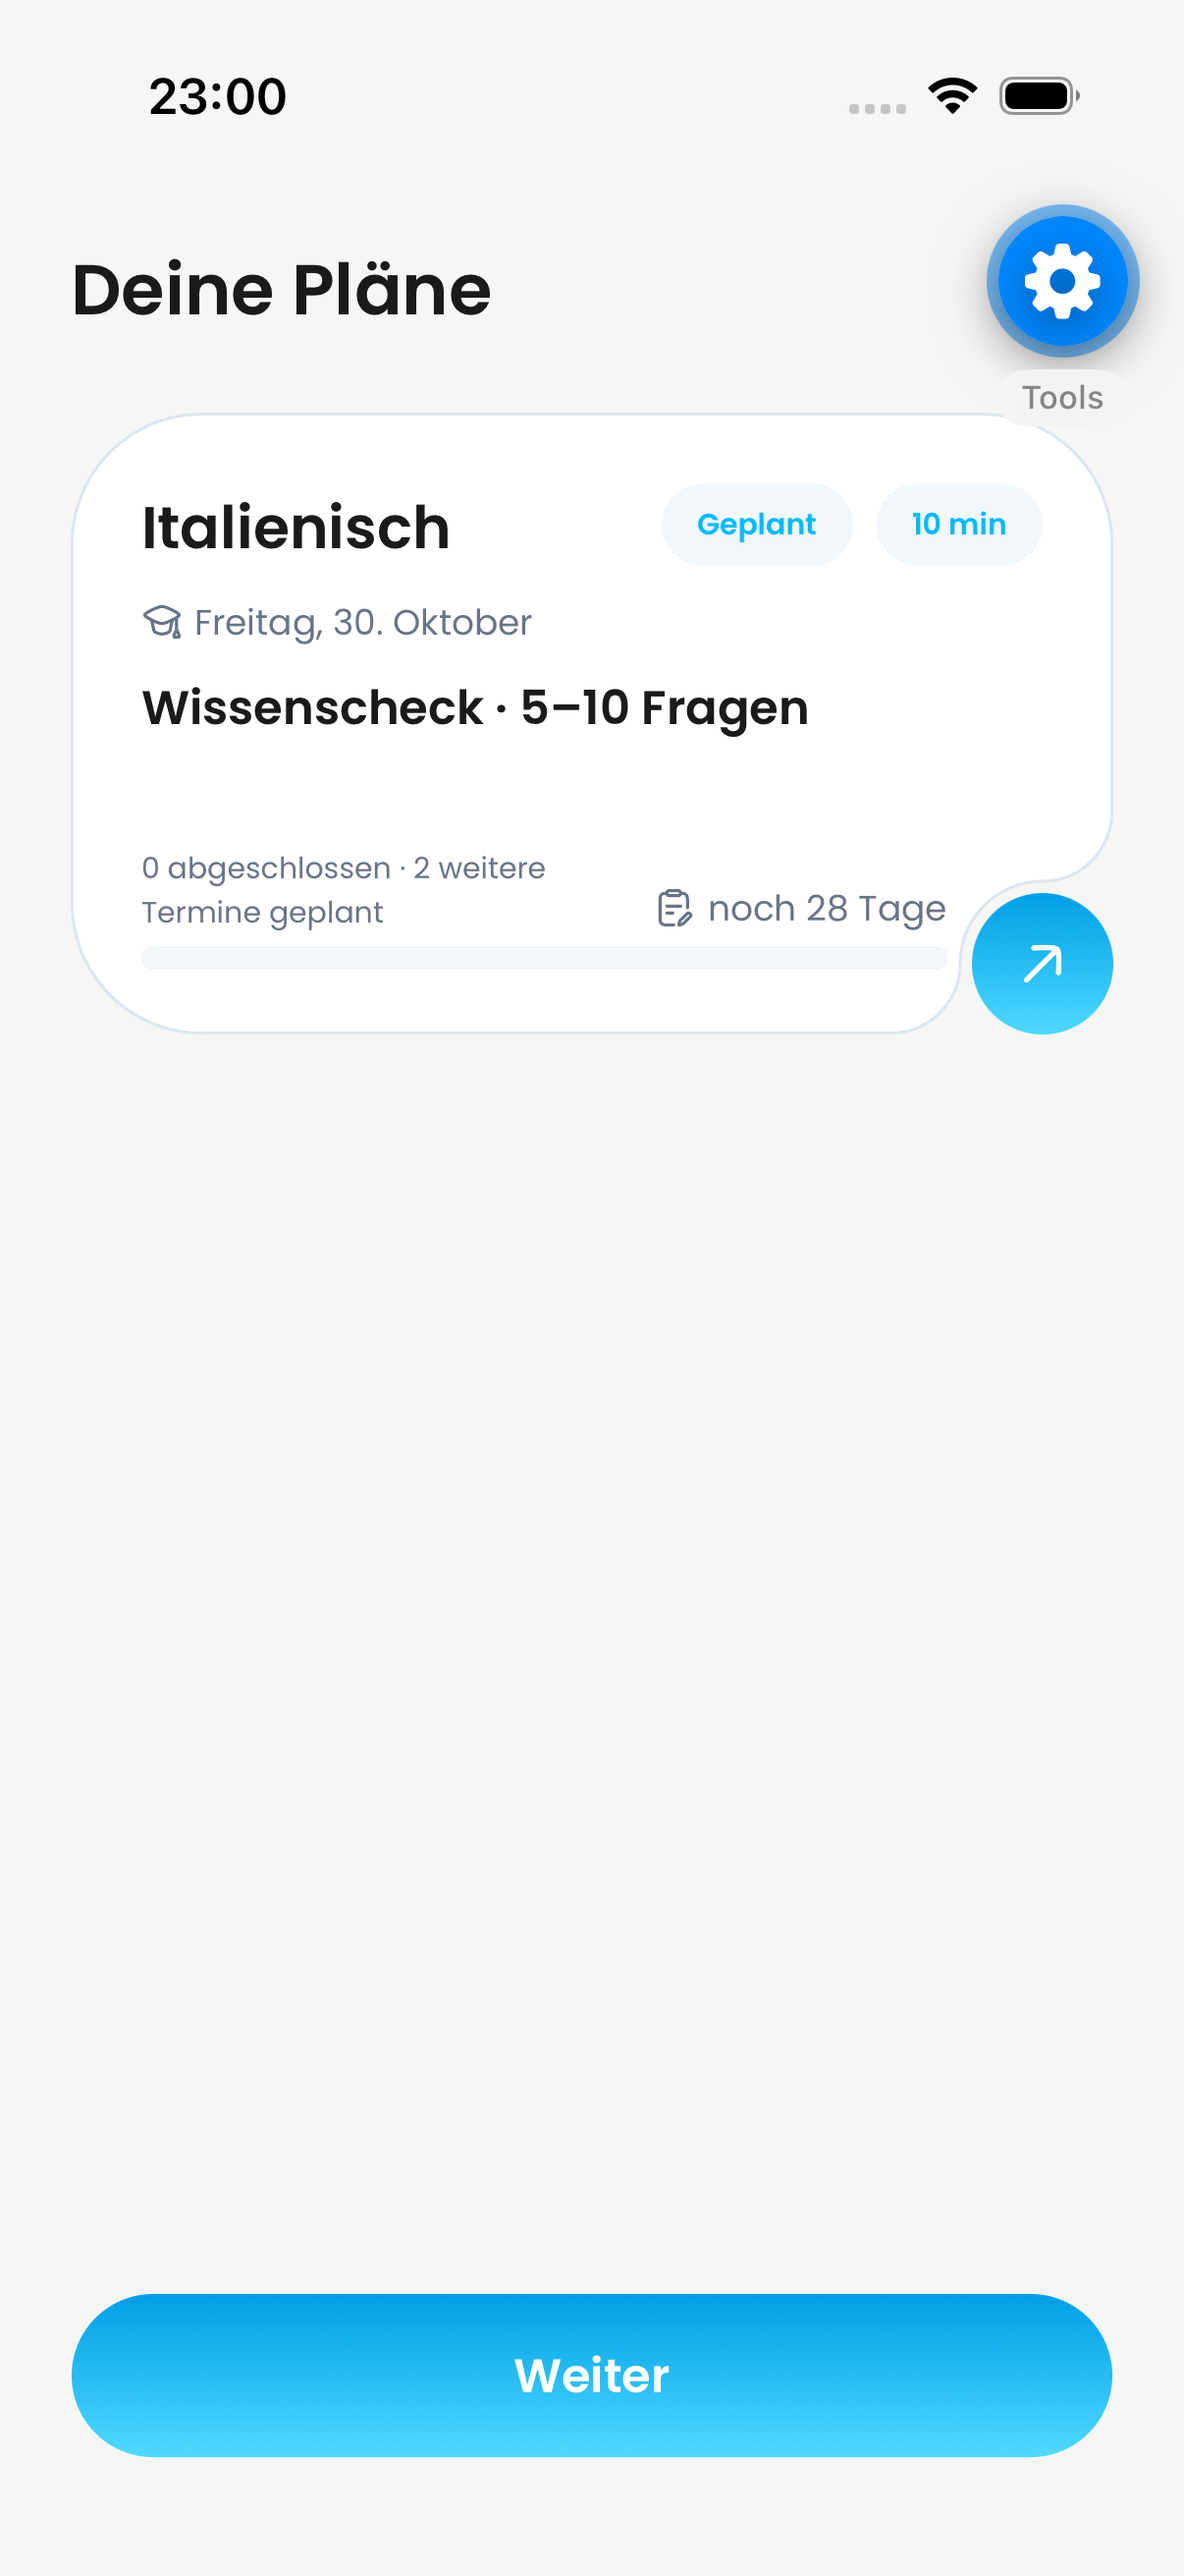
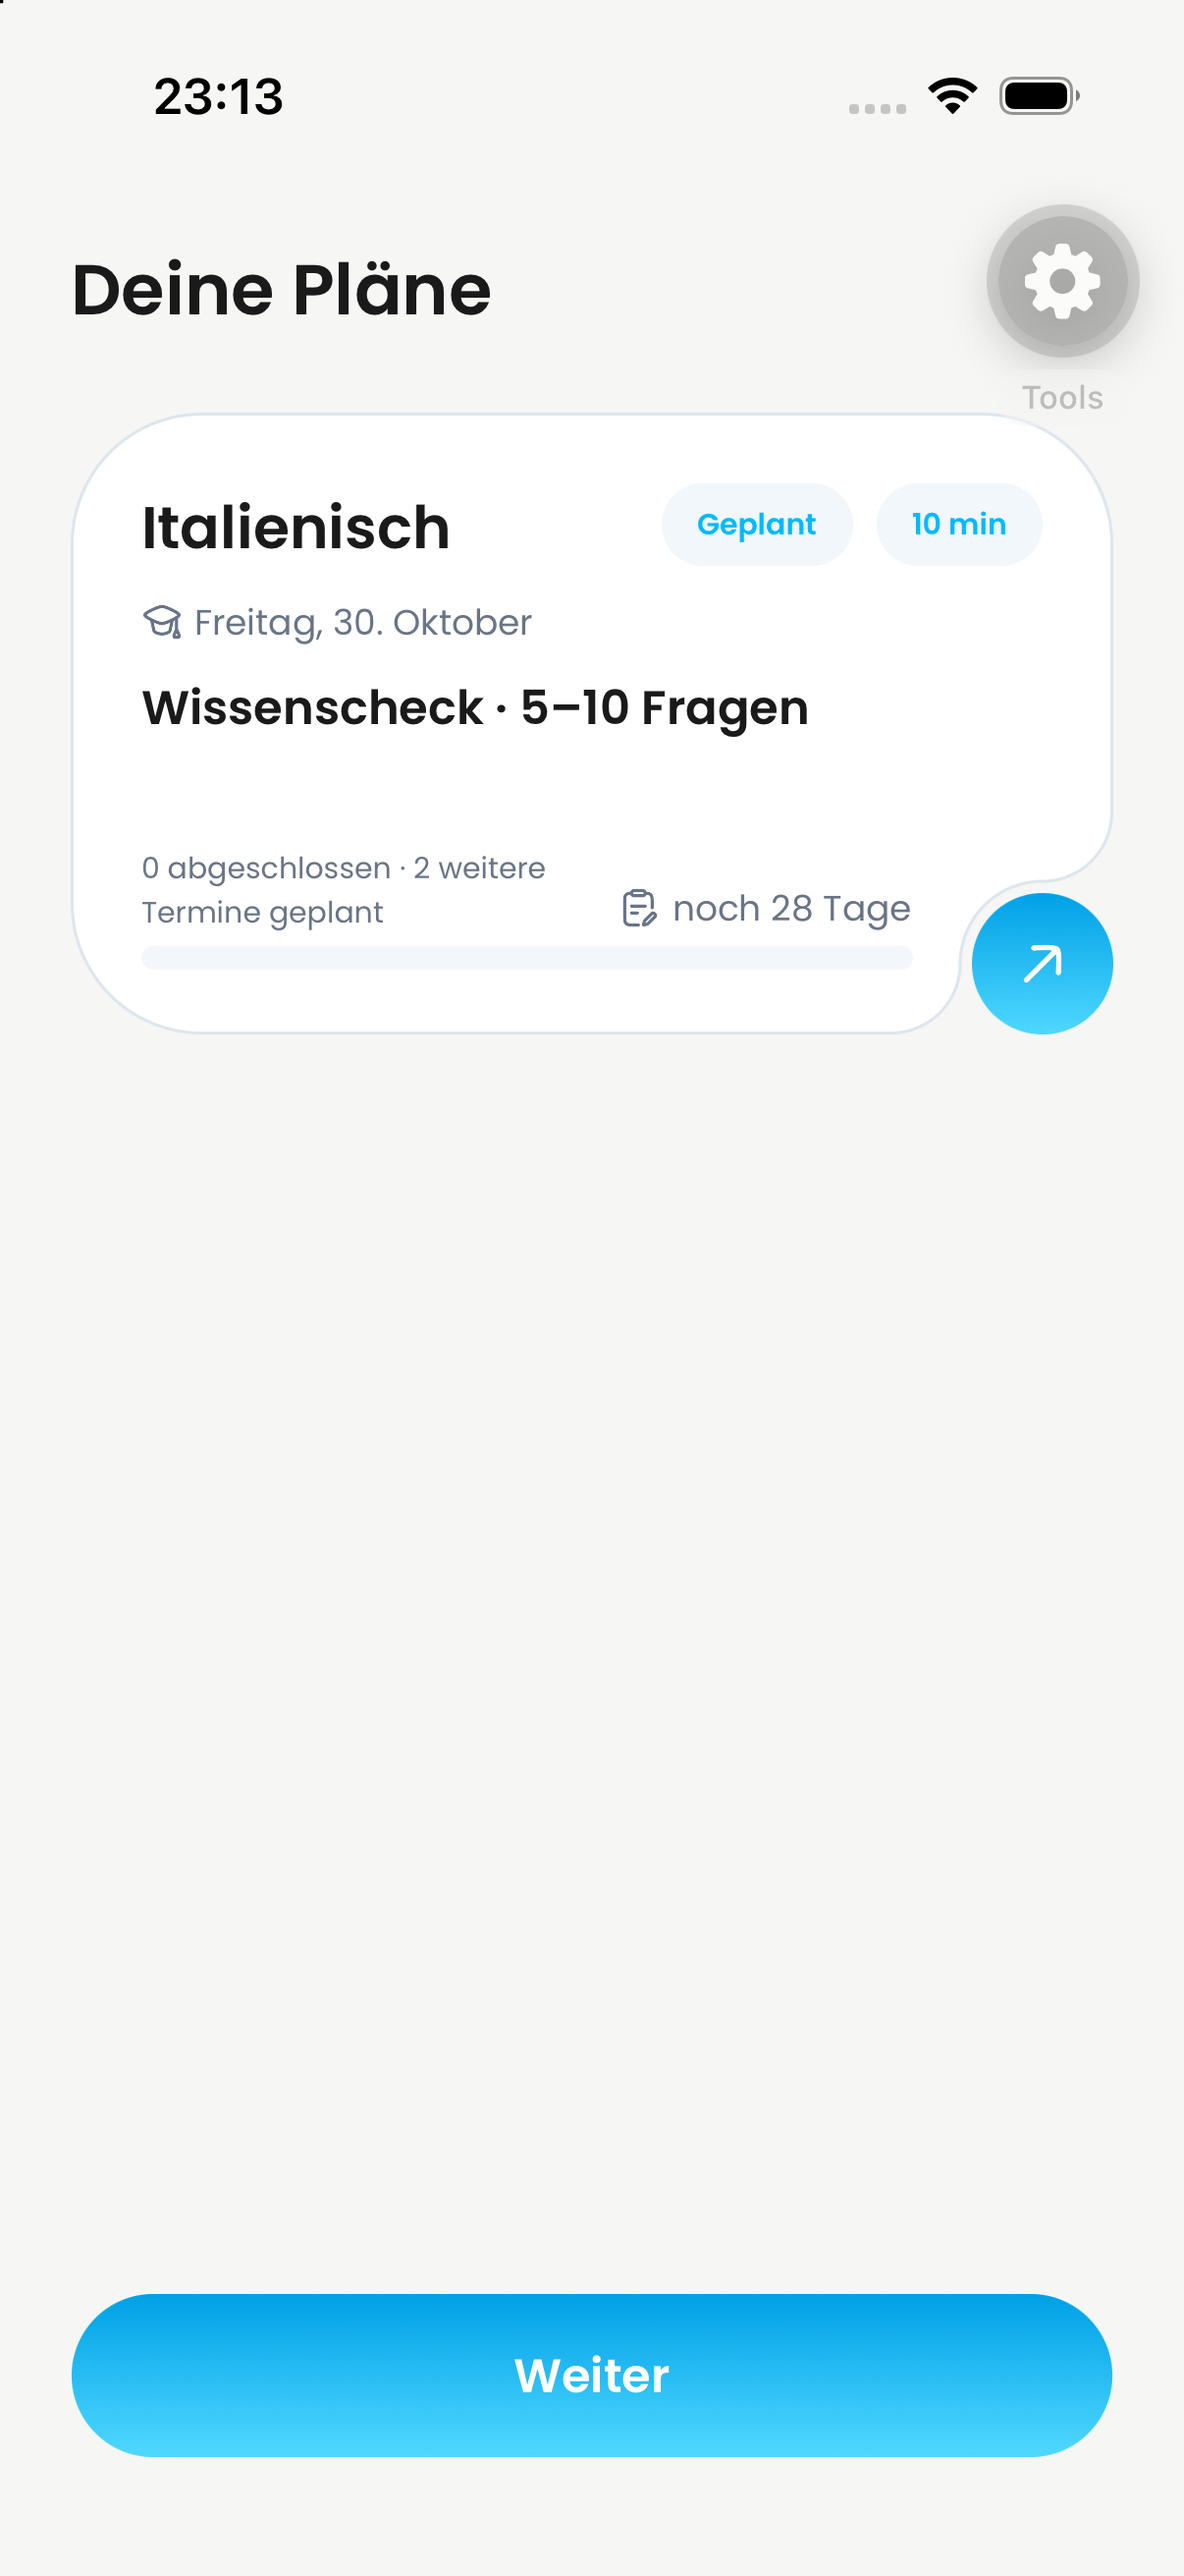
fix(DAY-497): give plan footer more room beside action

Changed region(s): [[0.8284, 0.0618, 0.9818, 0.1545], [0.5216, 0.3398, 0.7977, 0.3707], [0.1227, 0.0309, 0.2454, 0.0618]]

diff --git a/src/features/learning-plans/learning-plan-card-footer.tsx b/src/features/learning-plans/learning-plan-card-footer.tsx
@@ -6,8 +6,9 @@ import { DAYOVA_DESIGN_SYSTEM } from "~/lib/design-system";
 import { useDayovaTheme } from "~/lib/theme";
 
 // The card content ends 24 points from the edge. This keeps the footer another
-// 32 points inward so it clears the 48-point action and its notched border.
-const FOOTER_ACTION_INSET = 32;
+// 44 points inward, leaving 20 points before the 48-point action and
+// comfortable breathing room beside its notched border.
+const FOOTER_ACTION_INSET = 44;
 
 export function LearningPlanCardFooter({
 	fixedTextScale = false,

diff --git a/docs/evidence/day-497/README.md b/docs/evidence/day-497/README.md
@@ -28,3 +28,7 @@ temporarily replace the root index.ts import with `./src/design-preview`, and
 start the development client using a localhost Metro server. Restore index.ts
 and remove the temporary fixture afterward. The fixture was not shipped in the
 application. Its "Weiter" button cycles through six views.
+
+Follow-up: the plan footer inset is 44 points (12 more than the first preview),
+leaving 20 points before the action circle. `03-plan.png` and the overview
+were refreshed after native inspection of the user-marked spacing.
